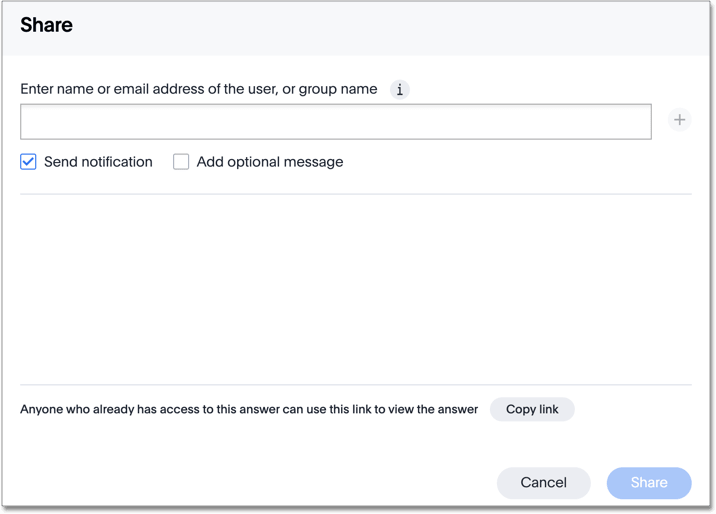
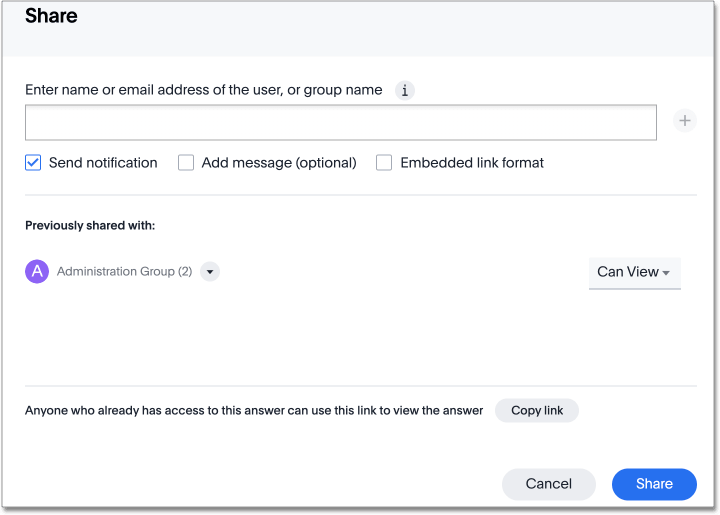
SCAL-86737 embedded link format for sharing, in review

diff --git a/_includes/content/share-answer.md b/_includes/content/share-answer.md
@@ -1,17 +1,14 @@
-![Save and share answers]({{ site.baseurl }}/images/sharinganswers.gif "Save and share answers")
-<!--{% include image.html file="sharinganswers.gif" title="Save and share answers" alt="Learn how to save and share answers." caption="Save and share answers" %}-->
-
 You do not have to be an administrator or the owner of an Answer to share saved Answers. Whenever you view an Answer, you have the option of sharing it with others. The Answer appears in its most recent state when you share it. For example, if you add a filter after saving the Answer and then share it, the Answer you share has that filter.
 
 You can share an Answer from the list of Answers on the [main **Answers** page](#share-answers-page), or from [the Answer itself](#share-answer).
 
 {: id="share-answers-page"}
 ## Share from the Answers page
-To share an Answer from the **Answers** page, follow these steps.
+To share Answers from the **Answers** page, follow these steps.
 
-1. Configure the Answer to look as it must appear when you share it.
+1. Configure the Answer(s) to look as it must appear when you share it.
 
-2. Save the Answer by clicking the ellipsis icon ![more options menu icon]({{ site.baseurl }}/images/icon-ellipses.png){: .inline}, and selecting **Save**.
+2. Save the Answer(s) by clicking the ellipsis icon ![more options menu icon]({{ site.baseurl }}/images/icon-ellipses.png){: .inline}, and selecting **Save**.
 
     ![Save an answer]({{ site.baseurl }}/images/sharing-save-answer.png "Save an answer")
 
@@ -19,7 +16,7 @@ To share an Answer from the **Answers** page, follow these steps.
 
     ![The top menu bar]({{ site.baseurl }}/images/sharing-answers-tab.png "The top menu bar")
 
-2. Select the Answer you want to share from the list of Answers by hovering over it and clicking the empty check box that appears.
+2. Select the Answer(s) you want to share from the list of Answers by hovering over the Answer name and clicking the empty check box that appears.
 
 3. Click **Share**.
 
@@ -35,17 +32,14 @@ To share an Answer from within the Answer, follow these steps.
 2. Save the answer by clicking the ellipsis icon ![more options menu icon]({{ site.baseurl }}/images/icon-ellipses.png){: .inline}, and selecting **Save**.
 
     ![Save an answer]({{ site.baseurl }}/images/sharing-save-answer.png "Save an answer")
-    <!--{% include image.html file="sharing-save-answer.png" title="Save an answer" alt="Click the ellipsis icon and then click save to save an answer." caption="Save an answer" %}-->
 
 3. Share the answer by clicking the sharing icon ![sharing icon]({{ site.baseurl }}/images/icon-share copy-20px.png){: .inline}.
 
     ![Share an answer]({{ site.baseurl }}/images/sharing-share-icon.png "Share an answer")
-    <!--{% include image.html file="sharing-share-icon.png" title="Share an answer" alt="To share an answer, click the share icon at the top right of your screen, next to the ellipsis icon." caption="Share an answer" %}-->
 
 4. If you did not save the answer, ThoughtSpot prompts you to name and save the answer before sharing it.
 
     ![Save and share your answer]({{ site.baseurl }}/images/sharing-saveandshare.png "Save and share your answer")
-    <!--{% include image.html file="sharing-saveandshare.png" title="Save and share your answer" alt="Save the answer before you can share it. You can add an optional description." caption="Save and share your answer" %}-->
 
 5. [Specify permissions.](#specify-permissions)
 

diff --git a/_includes/content/share-pinboard.md b/_includes/content/share-pinboard.md
@@ -1,5 +1,3 @@
-![Save and share pinboards]({{ site.baseurl }}/images/sharing-pinboards.gif "Save and share pinboards")
-
 When you share a Pinboard, you share a live link to the Pinboard that reflects the latest version of it. When someone else views the Pinboard you shared with them, they see the most recently saved version with the most recent data.
 
 You do not have to be an administrator or the Pinboard's owner to share saved Pinboards. Any user can share them, based on the access levels the user has.
@@ -8,11 +6,11 @@ You can share a Pinboard from the list of Pinboards on [the main pinboards page]
 
 {: id="share-mainpinboardpage"}
 ## Share from the Pinboards page
-To share a Pinboard from the main Pinboard page, follow these steps.
+To share Pinboards from the main Pinboard page, follow these steps.
 
-1. Configure the Pinboard to look as it must appear when you share it.
+1. Configure the Pinboard(s) to look as it must appear when you share it.
 
-2. Save the Pinboard by clicking the ellipsis icon ![more options menu icon]({{ site.baseurl }}/images/icon-ellipses.png){: .inline}, and selecting **Save**.
+2. Save the Pinboard(s) by clicking the ellipsis icon ![more options menu icon]({{ site.baseurl }}/images/icon-ellipses.png){: .inline}, and selecting **Save**.
 
     ![Save the pinboard]({{ site.baseurl }}/images/sharing-pinboardsave.png "Save the pinboard")
 
@@ -20,7 +18,7 @@ To share a Pinboard from the main Pinboard page, follow these steps.
 
     ![The top menu bar]({{ site.baseurl }}/images/sharing-mainpinboardpage.png "The top menu bar")
 
-2. Select the Pinboard you want to share from the list of Pinboards by hovering over it and clicking the empty check box that appears.
+2. Select the Pinboard(s) you want to share from the list of Pinboards by hovering over the Pinboard name and clicking the empty check box that appears.
 
 3. Click **Share**.
 
@@ -41,6 +39,21 @@ To share a Pinboard from within the Pinboard, follow these steps.
     ![Click the sharing icon]({{ site.baseurl }}/images/sharing-pinboardshareicon.png "Click the sharing icon")
 
 5. [Specify permissions](#specify-permissions).
+
+## Share a Pinboard visualization
+You can also share a specific visualization within a Pinboard. When you share a Pinboard visualization, the user or group receives an email with a link to that visualization.
+
+Note that sharing a specific visualization within a Pinboard gives users and groups access to the entire Pinboard.
+
+To share a Pinboard visualization, follow these steps:
+
+1. Navigate to the Pinboard visualization that you would like to share.
+
+2. Select the sharing icon ![sharing icon]({{ site.baseurl }}/images/icon-share copy-20px.png){: .inline} that appears when you hover over the visualization.
+
+    ![Share a Pinboard visualization]({{ site.baseurl }}/images/share-pinboard-viz-button.png "Share a Pinboard visualization")
+
+3. [Specify permissions](#specify-permissions).
 
 {: id="specify-permissions"}
 ## Specify permissions

diff --git a/_includes/content/share-answersandpinboards-specify-permissions.md b/_includes/content/share-answersandpinboards-specify-permissions.md
@@ -2,7 +2,7 @@
 
     ![The sharing dialog box]({{ site.baseurl }}/images/sharing-modal.png "The sharing dialog box")
 
-4. Enter users or groups with whom you want to share this object in the text box.
+4. Enter users or groups with whom you want to share this object in the text box. To stop sharing with a user or group, click the **x** icon next to the **Permissions** dropdown for that user or group.
 
     Note that you can only enter email addresses whose domains are in your list of allowed domains. These domains appear when you click on the info button ![]({{ site.baseurl }}/images/icon-information-10px.png){: .inline}.
 
@@ -25,9 +25,9 @@
 
     After you enable access, the warning symbol turns into a green checkmark.
 
-6. To stop sharing with a user or group, click the **x** icon next to the **Permissions** dropdown.
-
 6. You can choose to send an email notification and an optional message.
+
+7. If your ThoughtSpot environment is embedded, select **Embedded link format** to ensure that the links to the object in the sharing email go to the embedded version of ThoughtSpot in your parent application.
 
 5. You can also copy a direct link to the Answer, Pinboard, or visualization within a Pinboard that you are sharing, and separately send that link to users after you share the object with them. Simply click the **Copy link** button at the bottom of the sharing dialog box.
 

diff --git a/_includes/content/new-features-cloud-release.md b/_includes/content/new-features-cloud-release.md
@@ -21,6 +21,15 @@ The latest release of ThoughtSpot Cloud contains several new and enhanced featur
 
 <h3><a id="june-cloud-business-user"></a>For the Business User</h3>
 
+<dl>
+
+<dlentry id="embedded-link-format">
+<dt>Embedded link format for sharing objects</dt>
+<dd>For embedded ThoughtSpot environments, you now have the option to specify an embedded link format when sharing objects. By selecting this option in the sharing modal, you ensure that the links to the object in the sharing email go to the embedded version of ThoughtSpot in your parent application. Refer to <a href="{{ site.baseurl }}/end-user/pinboards/share-answers.html">Share answers</a> for more information.</dd>
+</dlentry>
+
+</dl>
+
 <h3><a id="june-cloud-data-engineer"></a>For the Data Engineer</h3>
 
 <h3><a id="june-cloud-it-ops-engineer"></a>For the IT Ops Engineer</h3>

diff --git a/_end-user/pinboards/share-pinboards.md b/_end-user/pinboards/share-pinboards.md
@@ -1,7 +1,6 @@
 ---
 title: [Share a pinboard]
 last_updated: 12/18/2019
-toc: false
 summary: "When you view a pinboard in ThoughtSpot, you can share it with others. "
 sidebar: mydoc_sidebar
 permalink: /:collection/:path.html

diff --git a/_end-user/pinboards/share-answers.md b/_end-user/pinboards/share-answers.md
@@ -1,7 +1,6 @@
 ---
 title: [Share answers]
 last_updated: 12/18/2019
-toc: false
 summary: "When you view an answer in ThoughtSpot, you can share it with others."
 sidebar: mydoc_sidebar
 permalink: /:collection/:path.html
